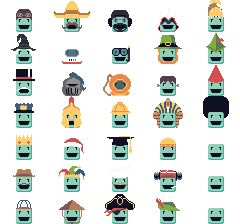
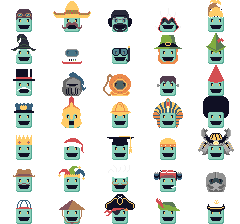
Adding Samurai, Fighter Pilot and Ship Captain hats

Changed region(s): [[0.8167, 0.5625, 0.9917, 0.6875], [0.8458, 0.75, 0.9625, 0.875], [0.8458, 0.9062, 0.9333, 0.9688]]

diff --git a/game/lib/screens/game/hats.dart b/game/lib/screens/game/hats.dart
@@ -39,6 +39,9 @@ enum Hat {
   ROBIN_HOOD,
   GNOME,
   AFRO,
+  SAMURAI,
+  FIGHTER_PILOT,
+  SHIP_CAPTAIN,
 }
 
 class HatSprite {
@@ -107,6 +110,9 @@ class HatSprite {
   Sprite get robinHood => _spriteSheet.getSprite(1, 4);
   Sprite get gnome => _spriteSheet.getSprite(2, 4);
   Sprite get afro => _spriteSheet.getSprite(3, 4);
+  Sprite get samurai => _spriteSheet.getSprite(4, 4);
+  Sprite get fighterPilot => _spriteSheet.getSprite(5, 4);
+  Sprite get shipCaptain => _spriteSheet.getSprite(6, 4);
 
   String get label {
     switch(_hat) {
@@ -205,6 +211,15 @@ class HatSprite {
       }
       case Hat.AFRO: {
         return "Afro";
+      }
+      case Hat.SAMURAI: {
+        return "Samurai";
+      }
+      case Hat.FIGHTER_PILOT: {
+        return "Fighter Pilot";
+      }
+      case Hat.SHIP_CAPTAIN: {
+        return "Ship Captain";
       }
     }
   }
@@ -306,6 +321,15 @@ class HatSprite {
       }
       case Hat.AFRO: {
         return afro;
+      }
+      case Hat.SAMURAI: {
+        return samurai;
+      }
+      case Hat.FIGHTER_PILOT: {
+        return fighterPilot;
+      }
+      case Hat.SHIP_CAPTAIN: {
+        return shipCaptain;
       }
     }
   }

diff --git a/game/lib/screens/hats_screen.dart b/game/lib/screens/hats_screen.dart
@@ -195,7 +195,7 @@ class _HatsScreenState extends State<HatsScreen> {
                                               height: 64,
                                               child: CustomPaint(size: const Size(96, 64), painter: _SpriteCustomPainter(hatSprite.hatSprite, owned.contains(hatType))),
                                           ),
-                                          Label(label: hatSprite.label, fontSize: 14),
+                                          Center(child: Label(label: hatSprite.label, fontSize: 12)),
                                         ]
                                     )
                                 );
